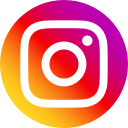
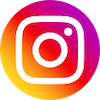
Images Decreased in size and most converted to jpg to optimize speed

diff --git a/css/style.css b/css/style.css
@@ -239,17 +239,17 @@ input[type=submit]:hover{
 
 
 #card-1{ /*Card heading bg image */
-  background-image: url("../media/our-mission.png");
+  background-image: url("../media/our-mission.jpg");
   background-position: top;
 }
 
 #card-2{ /*Card heading bg image */
-  background-image: url("../media/most-trusted.png");
+  background-image: url("../media/most-trusted.jpg");
   background-position: center;
 }
 
 #card-3{ /*Card heading bg image */
-  background-image: url("../media/enquire-today.png");
+  background-image: url("../media/enquire-today.jpg");
   background-position: center;
 }
 

diff --git a/inc/functions.php b/inc/functions.php
@@ -67,7 +67,7 @@ function display_featured_property($property){
           </div>
 
           <div class=\"house-img row\">
-            <img src=\"./media/properties/{$property['PID']}.png\" alt=\"Property Image\">
+            <img src=\"./media/properties/{$property['PID']}.jpg\" alt=\"Property Image\">
           </div>
         </div>
       ";
@@ -120,7 +120,7 @@ function format_page_name(string $page_name){
 function display_agent_card($agent){
   echo "
         <div class=\"card column\">
-          <div class=\"card-head column\" style=\"background-image:url('./media/agents/{$agent['AID']}.png');\">
+          <div class=\"card-head column\" style=\"background-image:url('./media/agents/{$agent['AID']}.jpg');\">
             <h3>{$agent['FName']} {$agent['SName']}</h3>
           </div>
           <div class=\"card-body column\">
@@ -141,7 +141,7 @@ function display_agent_card($agent){
 function display_listing_card($listing){
   echo "
         <div class=\"card static-card column\">
-          <div class=\"card-head column\" style=\"background-image: url('./media/properties/{$listing['Property']}.png');\">
+          <div class=\"card-head column\" style=\"background-image: url('./media/properties/{$listing['Property']}.jpg');\">
             <h3>{$listing['Title']}</h3>
           </div>
           <div class=\"card-body column\">
@@ -216,14 +216,14 @@ function check_image($image, string $target_location, string $aspect_ratio=""){
   }
 
   //Check File size
-  if($image["size"] > 500000){
+  if($image["size"] > 500000){ //Max file size 500kb
     echo "File too large";
     return false;
   }
 
-  //Check if not png
-  if($file_type != "png"){
-    echo "File must be png format";
+  //Check if not jpg
+  if($file_type != "jpg"){
+    echo "File must be jpeg format";
     return false;
   }
 

diff --git a/inc/about-story.php b/inc/about-story.php
@@ -1,7 +1,7 @@
 <div class="about-info column">
   <h1>Our Story</h1>
   <div class="about-section row">
-    <img src="./media/our-story.png" alt="Our Story">
+    <img src="./media/our-story.jpg" alt="Our Story">
     <p>Lorem ipsum dolor sit amet, consectetur adipiscing elit. Nam scelerisque risus vel ante suscipit vehicula. Morbi suscipit vehicula leo sed egestas. Mauris pretium in libero at pharetra. Donec in tincidunt dui. Pellentesque ut fermentum diam. Vivamus dictum leo quis efficitur iaculis. Sed facilisis dolor a elit pulvinar sollicitudin. Integer sed elementum lorem. Sed ac ornare libero. Cras ex lectus, dignissim non tincidunt non, tempus eu nibh. Nullam nec finibus tortor. Phasellus egestas mollis ornare. Sed rutrum mi ac hendrerit cursus. Suspendisse quis odio a diam commodo sollicitudin.
       <br> <br>
       In hac habitasse platea dictumst. Ut auctor magna vel elit congue consectetur. Vivamus ornare risus vel mi suscipit lacinia. Pellentesque quis tellus in mauris aliquam mattis. Nullam quam nisi, porta quis mattis eu, commodo vitae nunc. Nulla eu mollis magna, sed ultrices enim. Mauris vitae venenatis erat, sit amet tincidunt nunc.

diff --git a/listing-profile.php b/listing-profile.php
@@ -11,7 +11,7 @@
        $property = get_from_table("tbl_properties","tbl_properties.PID = {$listing['Property']}")[0];
        $listing = array_merge($listing,$property);
      }
-     
+
      else{ //Redirect to listings
        header("Location: ./listings.php");
      }
@@ -28,7 +28,7 @@
 
      <div class="content column">
        <div class="property-image">
-         <img src="./media/properties/<?php echo $listing['PID'] ?>.png" alt="<?php echo $listing['Address'] ?>">
+         <img src="./media/properties/<?php echo $listing['PID'] ?>.jpg" alt="<?php echo $listing['Address'] ?>">
        </div>
 
        <div class="listing-profile-content row">

diff --git a/inc/add-listing-form.php b/inc/add-listing-form.php
@@ -74,7 +74,7 @@
   </div>
 
   <div class="row">
-    <label for="listing-image">Select Property Image: <br> Required File Type: .png | Required Aspect Ratio: 2:1</label>
+    <label for="listing-image">Select Property Image: <br> Required File Type: .jpg | Required Aspect Ratio: 2:1</label>
     <input type="file" name="listing-image" <?php echo ((isset($property))? NULL:'required'); ?>>
   </div>
 

diff --git a/inc/edit-listing-form.php b/inc/edit-listing-form.php
@@ -74,7 +74,7 @@
   </div>
 
   <div class="row">
-    <label for="listing-image">Change Property Image: <br> Required File Type: .png | Required Aspect Ratio: 2:1</label>
+    <label for="listing-image">Change Property Image: <br> Required File Type: .jpg | Required Aspect Ratio: 2:1</label>
     <input type="file" name="listing-image" <?php echo ((isset($listing))? NULL:'disabled'); ?>>
   </div>
 

diff --git a/inc/edit-agent-form.php b/inc/edit-agent-form.php
@@ -32,7 +32,7 @@
 
 
   <div class="row">
-    <label for="agent-image">Change Profile Picture: <br> Required File Type: .png | Required Aspect Ratio: 1:1</label>
+    <label for="agent-image">Change Profile Picture: <br> Required File Type: .jpg | Required Aspect Ratio: 1:1</label>
     <input type="file" name="agent-image" <?php echo ((isset($active_agent))? NULL:'disabled'); ?>>
   </div>
 

diff --git a/inc/agent-info.php b/inc/agent-info.php
@@ -1,7 +1,7 @@
 <div class="about-info column">
   <h1>About Me</h1>
   <div class="about-section row">
-    <?php echo "<img src=\"./media/agents/{$agent['AID']}.png\" alt=\"{$agent['FName']} {$agent['SName']}\">"; ?>
+    <?php echo "<img src=\"./media/agents/{$agent['AID']}.jpg\" alt=\"{$agent['FName']} {$agent['SName']}\">"; ?>
     <p>
       <?php echo $agent['Bio'];?>
     </p>

diff --git a/inc/add-agent-form.php b/inc/add-agent-form.php
@@ -30,7 +30,7 @@
 
 
   <div class="row">
-    <label for="agent-image">Select a Profile Picture: <br> Required File Type: .png | Required Aspect Ratio: 1:1</label>
+    <label for="agent-image">Select a Profile Picture: <br> Required File Type: .jpg | Required Aspect Ratio: 1:1</label>
     <input type="file" name="agent-image" required>
   </div>
 

diff --git a/inc/about-mission.php b/inc/about-mission.php
@@ -2,6 +2,6 @@
   <h1>Our Mission</h1>
   <div class="about-section row">
     <p class="our-mission">Our Mission is to always do right by our customers to provide you the best service and the best homes.</p>
-    <img src="./media/about-mission.png" alt="Our Mission">
+    <img src="./media/about-mission.jpg" alt="Our Mission">
   </div>
 </div>

diff --git a/inc/title.php b/inc/title.php
@@ -29,7 +29,7 @@
     //PHP can be used to dynamically change url
     echo "<style media=\"screen\">
             .title{
-              background-image: url('./media/"."{$active_page}-background".".png');
+              background-image: url('./media/"."{$active_page}-background".".jpg');
             }
           </style>";
    ?>
